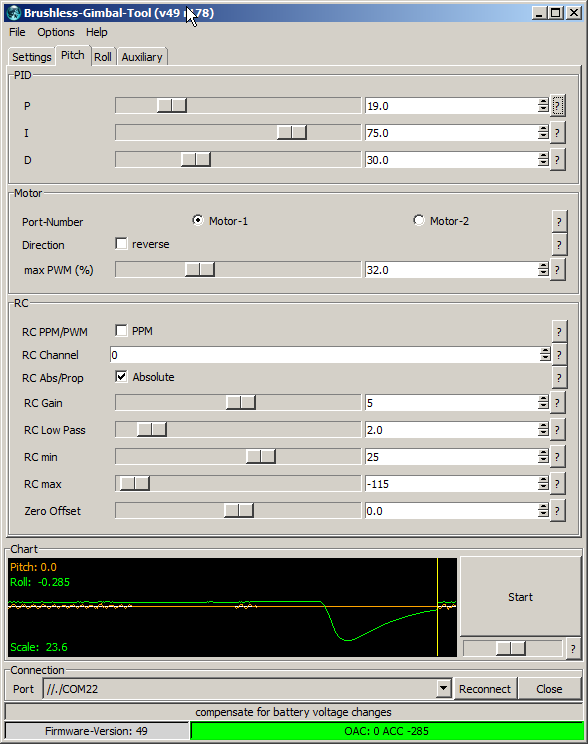
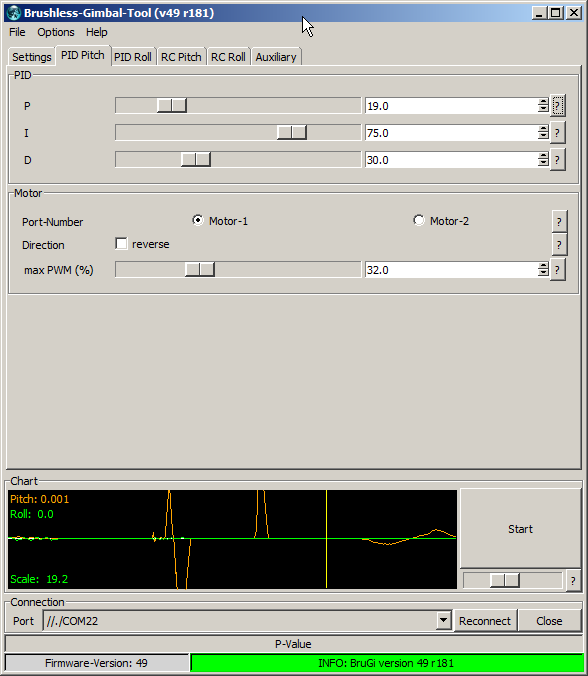
minor update   GUI screenshots added/update   angleOffset configuration more smooth open issue; gyro calibration with GUI fails, restart required (since r178?)

Changed region(s): [[0.0, 0.0, 1.0, 1.0], [0.8878, 0.0, 1.0, 0.0311], [0.8571, 0.7766, 0.9184, 0.8077]]

diff --git a/_BruGi/orientationRoutines.h b/_BruGi/orientationRoutines.h
@@ -46,18 +46,14 @@ void gyroOffsetCalibration()
   enableMotorUpdates = false;
 
   // wait 1 second
-  for (i=0; i<100; i++) {
-    delayMicroseconds(10000); // 1 ms 
-  }
+  delayT1(1000);
   
   while(calibGCounter>0)
   {
 
     if(calibGCounter==GYRO_INTERATIONS)
     {
-      for (i=0; i<70; i++) { // wait 0.7sec if calibration failed
-        delayMicroseconds(10000); // 10 ms 
-      }
+      delayT1(700);
       mpu.getRotation(&gyro[0], &gyro[1], &gyro[2]); 
       for (i=0; i<3; i++) {
         fp_gyroOffset[i] = 0;

diff --git a/_BruGi/variables.h b/_BruGi/variables.h
@@ -321,6 +321,12 @@ static int16_t acc_25deg = 25;      //** TODO: check
 
 static int32_t angle[2]    = {0,0};  // absolute angle inclination in multiple of 0.01 degree    180 deg = 18000
 
+static float angleOffsetRoll_f = 0;
+static float angleOffsetPitch_f = 0;
+
+static int32_t angleOffsetRoll = 0;
+static int32_t angleOffsetPitch = 0;
+
 
 // DEBUG only
 uint32_t stackTop = 0xffffffff;
